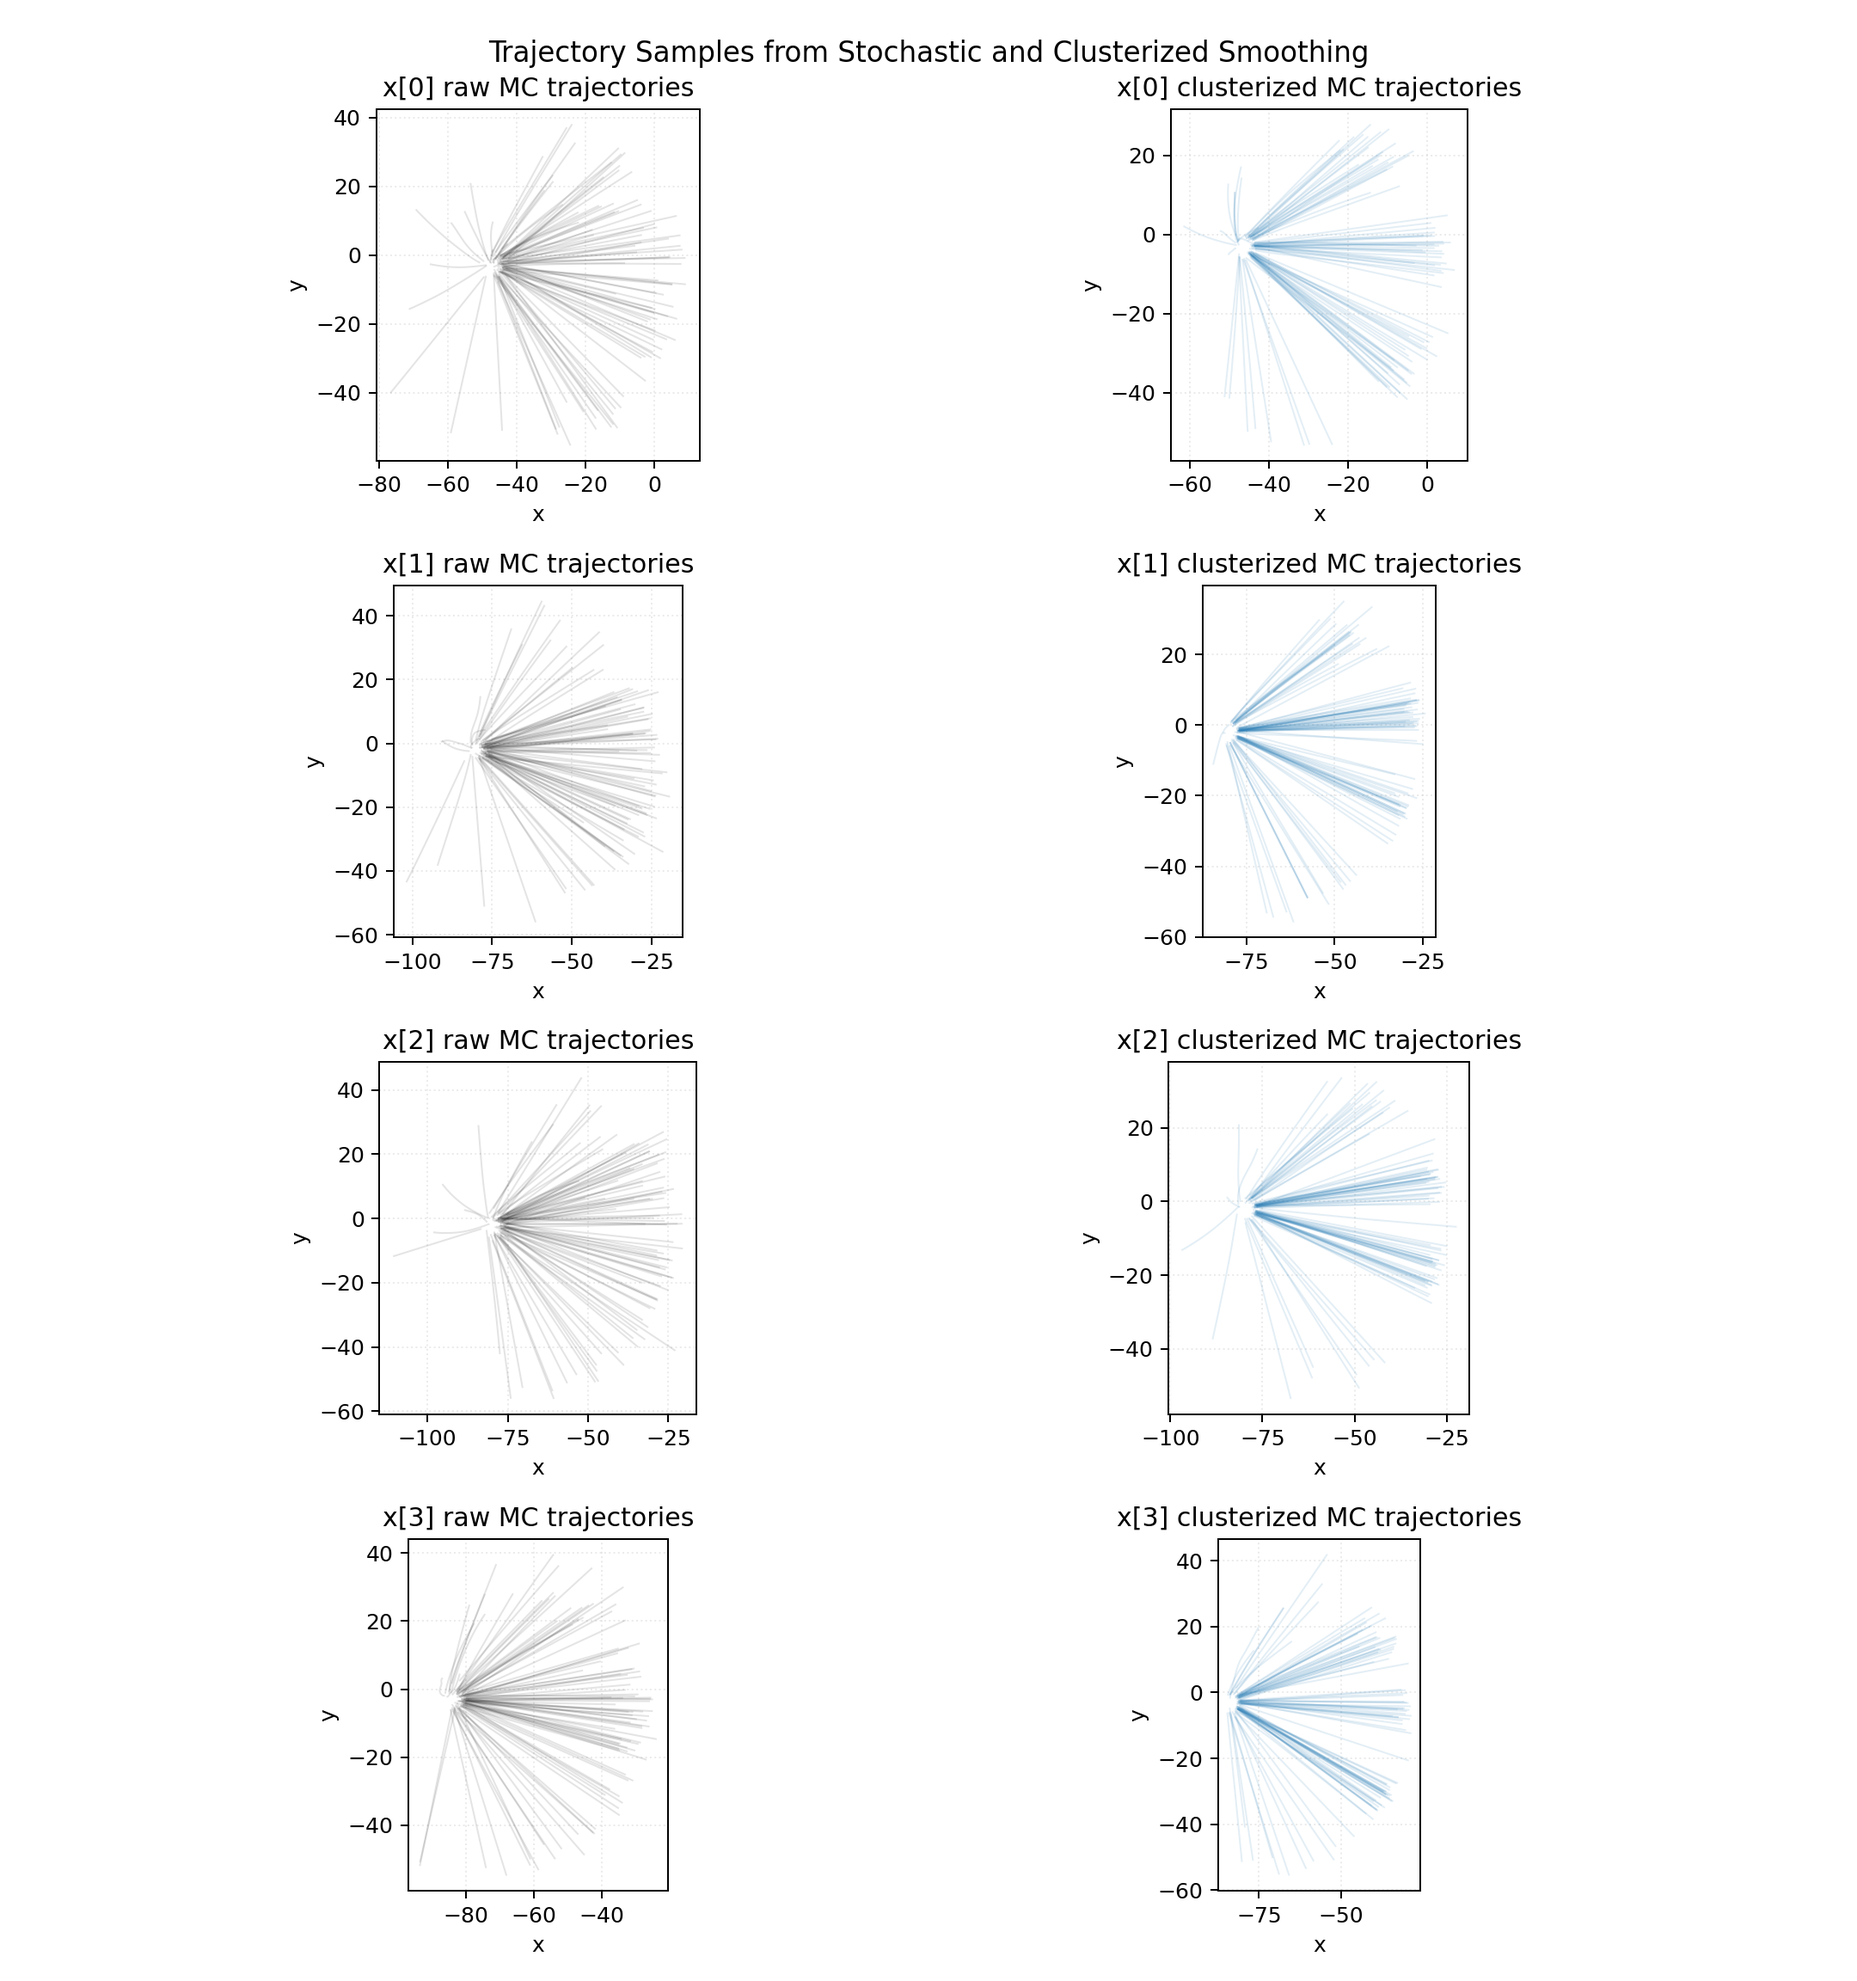
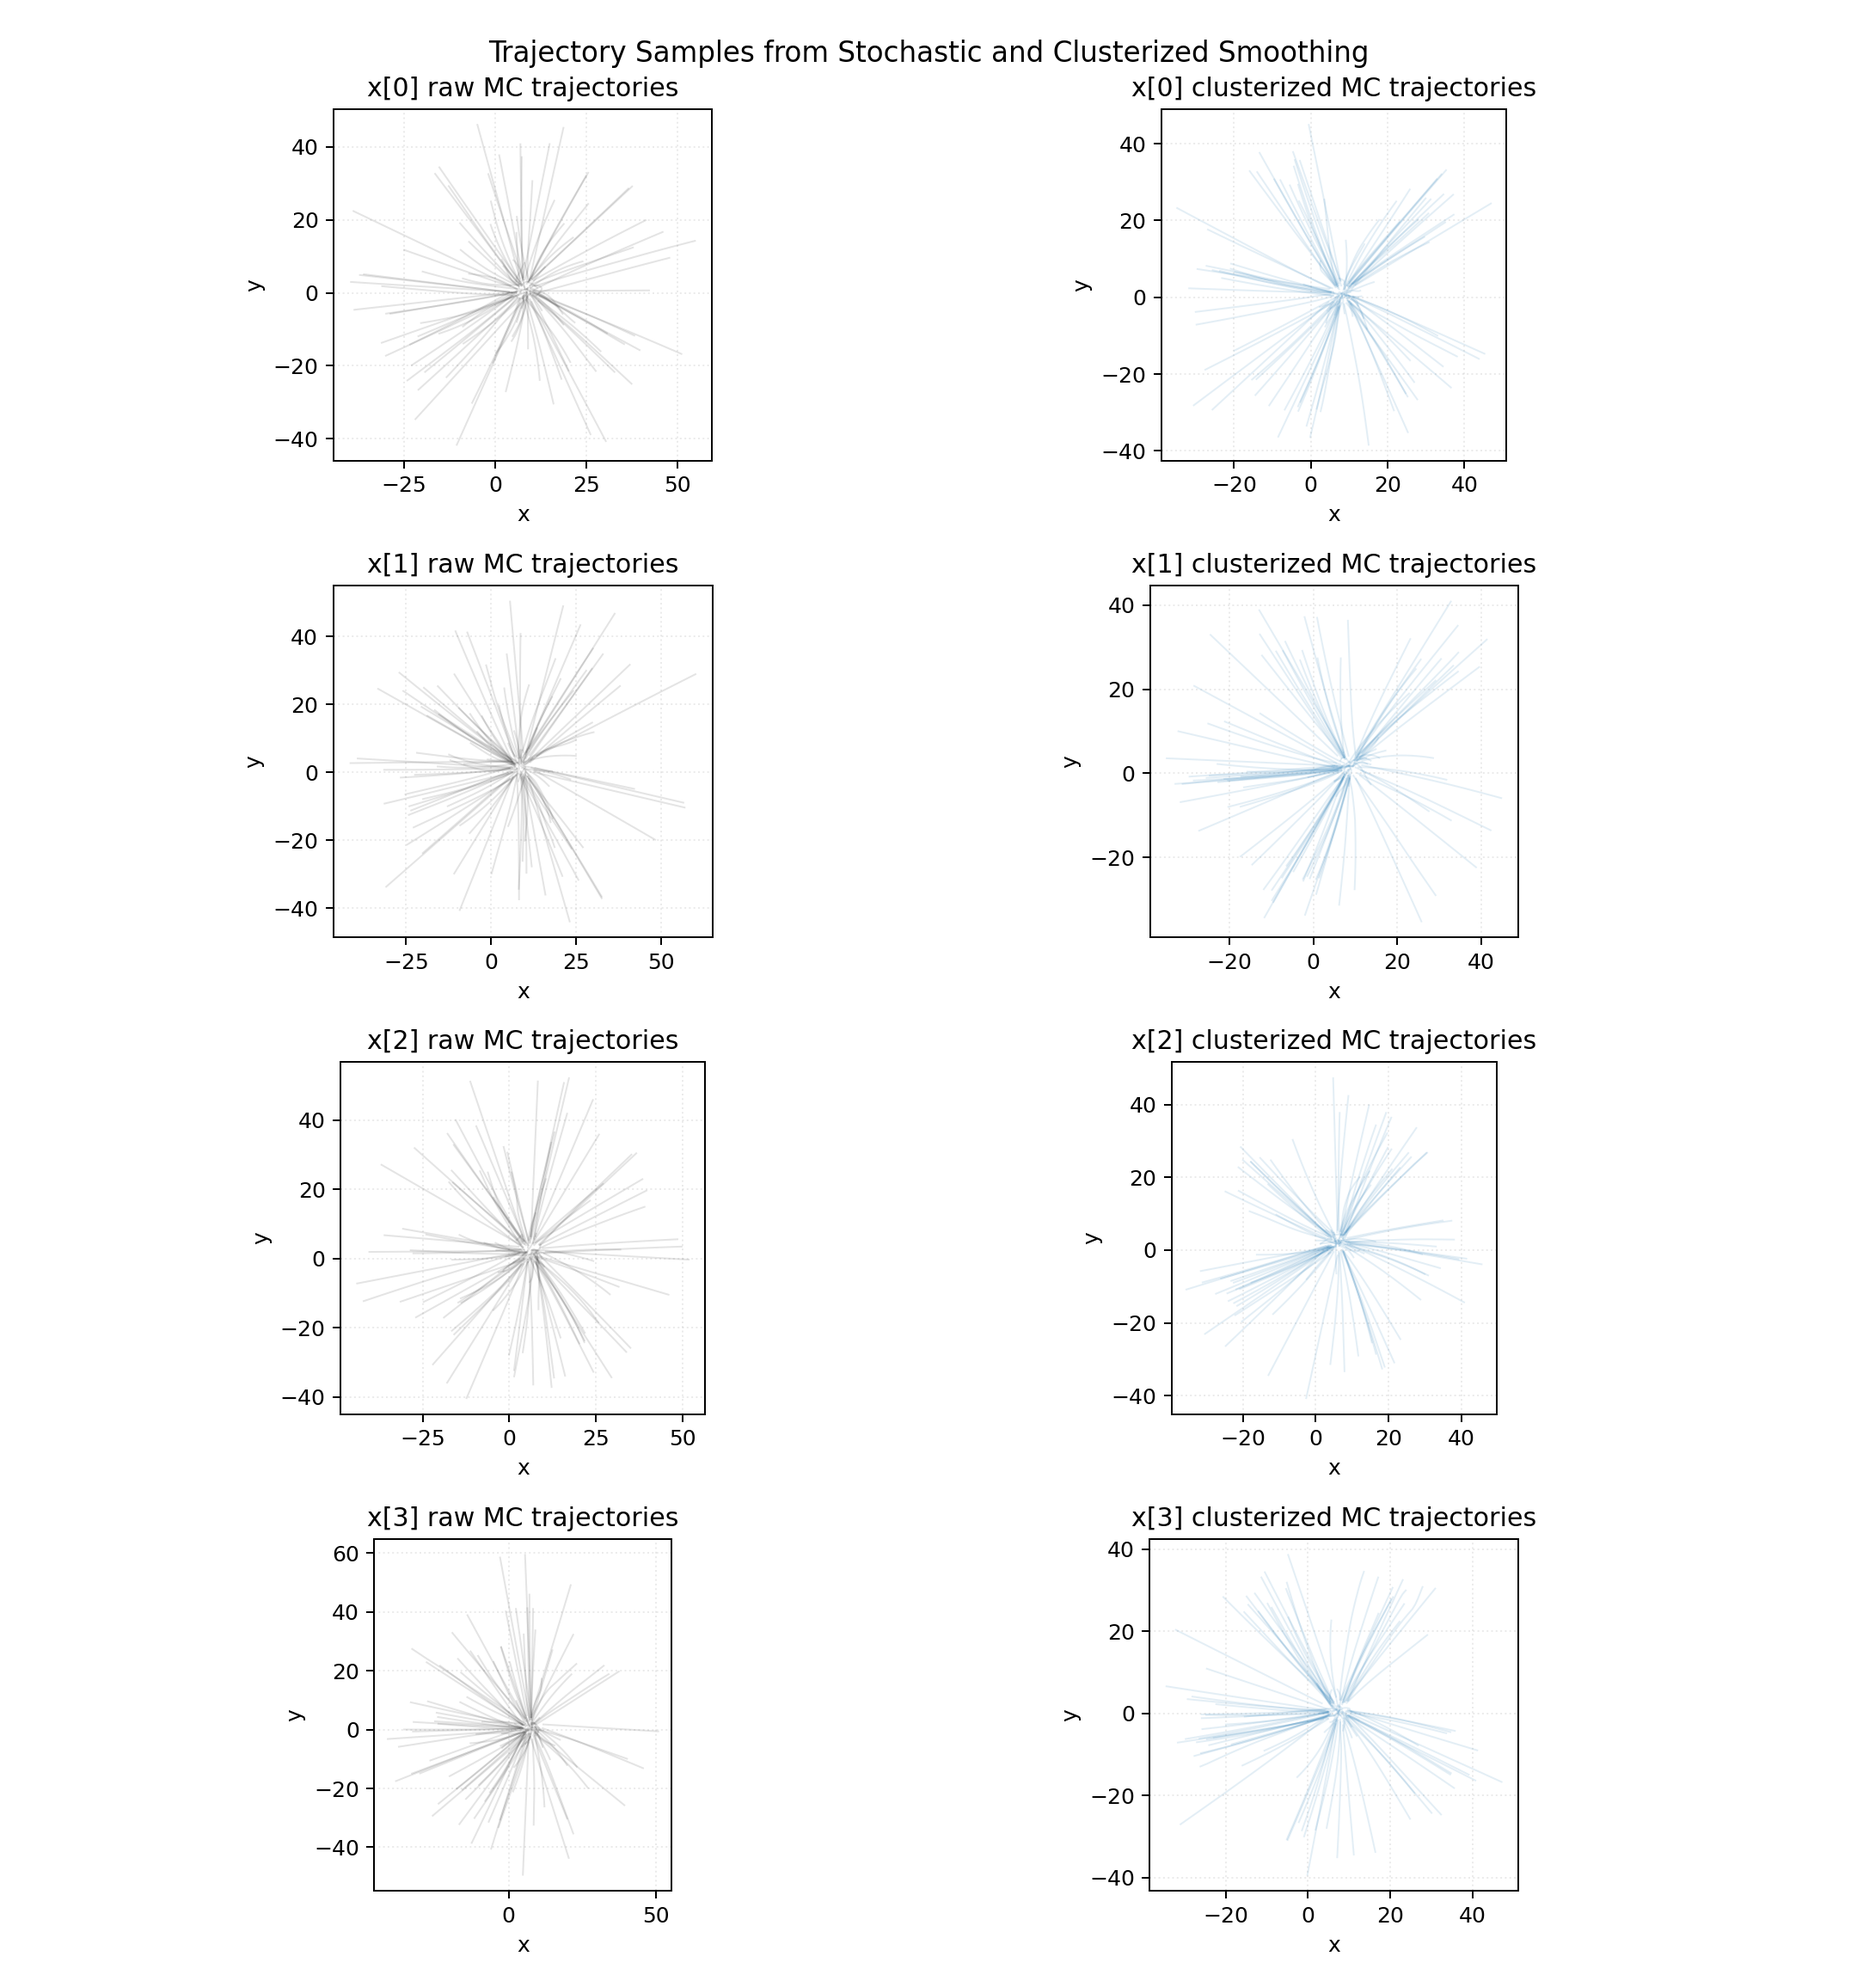
Update the model loading procedure

diff --git a/experiments/TrajFlow_exp/trajflow_meszaros.py b/experiments/TrajFlow_exp/trajflow_meszaros.py
@@ -8,6 +8,12 @@ import sys
 import importlib
 import types
 from PIL import Image
+from pathlib import Path
+
+TRAJFLOW = Path(__file__).resolve().parent
+if str(TRAJFLOW) not in sys.path:
+    sys.path.insert(0, str(TRAJFLOW))
+
 from TrajFlow.flowModels import TrajFlow, Future_Encoder, Future_Decoder, Future_Seq2Seq, Scene_Encoder, Future_Decoder_Control, Future_Seq2Seq_Control
 
 
@@ -229,163 +235,11 @@ class trajflow_meszaros():
     def load_method(self):        
         fut_model_file = self.model_file[:-4] + '_AE'
         flow_dist_file = self.model_file[:-4] + '_NF'
-        self.fut_model = self._pickle_load_with_map_location(fut_model_file)
-        self.flow_dist = self._pickle_load_with_map_location(flow_dist_file)
-        self._move_model_to_active_device(self.fut_model)
-        self._move_model_to_active_device(self.flow_dist)
-        self._make_gnn_encoder_compatible()
+        self.fut_model = pickle.load(open(fut_model_file, 'rb'))
+        self.flow_dist = pickle.load(open(flow_dist_file, 'rb'))
+        self.fut_model.to(self.device)
+        self.flow_dist.to(self.device)
 
-    def _make_gnn_encoder_compatible(self):
-        encoder = getattr(self.flow_dist, "GNNencoder", None)
-        if encoder is None:
-            return
-
-        try:
-            from torch_geometric.data import Data
-
-            dummy = Data(
-                x=torch.zeros((1, self.flow_dist.obs_encoding_size), dtype=torch.float32, device=self.device),
-                edge_index=torch.zeros((2, 0), dtype=torch.long, device=self.device),
-                edge_attr=torch.zeros((0, self.flow_dist.edge_dim_gnn), dtype=torch.float32, device=self.device),
-                batch=torch.zeros((1,), dtype=torch.long, device=self.device),
-            )
-            encoder(dummy)
-        except Exception:
-            self.flow_dist.GNNencoder = _ZeroSocialEncoder(
-                emb_dim=self.flow_dist.es_gnn,
-                device=self.device,
-            )
-
-    def _move_model_to_active_device(self, model):
-        if isinstance(model, torch.nn.Module):
-            model.to(self.device)
-            for submodule in model.modules():
-                if hasattr(submodule, "device"):
-                    submodule.device = self.device
-                if hasattr(submodule, "propagate"):
-                    submodule.__dict__.setdefault("_explain", False)
-                    submodule.__dict__.setdefault("_decomposed_layers", 1)
-                    if hasattr(submodule, "inspector"):
-                        try:
-                            inspector_cls = importlib.import_module("torch_geometric.inspector").Inspector
-                            submodule.inspector = inspector_cls(submodule.__class__)
-                            for fn_name in (
-                                "message",
-                                "aggregate",
-                                "update",
-                                "edge_update",
-                                "message_and_aggregate",
-                            ):
-                                if hasattr(submodule, fn_name):
-                                    try:
-                                        submodule.inspector.inspect_signature(fn_name)
-                                    except Exception:
-                                        pass
-                        except Exception:
-                            pass
-        elif hasattr(model, "device"):
-            model.device = self.device
-
-    @staticmethod
-    def _encode_agent_types(T):
-        # Keep historical one-byte encoding expected by TrajFlow checkpoints.
-        if np.issubdtype(np.asarray(T).dtype, np.number):
-            return np.asarray(T, dtype=np.uint8)
-
-        T_str = np.asarray(T).astype(str)
-        encoded = np.zeros(T_str.shape, dtype=np.uint8)
-        valid = T_str != 'nan'
-        if np.any(valid):
-            encoded[valid] = np.fromiter((ord(s[0]) for s in T_str[valid]), dtype=np.uint8)
-        return encoded
-
-    def _pickle_load_with_map_location(self, file_path):
-        # Pickled torch storages may contain CUDA tensors; remap to active device.
-        original_load_from_bytes = torch.storage._load_from_bytes
-        inspector_alias = "torch_geometric.nn.conv.utils.inspector"
-        added_inspector_alias = False
-        if inspector_alias not in sys.modules:
-            try:
-                sys.modules[inspector_alias] = importlib.import_module("torch_geometric.inspector")
-                added_inspector_alias = True
-            except ModuleNotFoundError:
-                pass
-
-        scatter_module = "torch_scatter"
-        added_scatter_shim = False
-        added_scatter_submodule_shim = False
-        if scatter_module not in sys.modules:
-            try:
-                importlib.import_module(scatter_module)
-            except ModuleNotFoundError:
-                shim = types.ModuleType(scatter_module)
-                shim.__path__ = []
-
-                def _scatter(src, index, dim=0, reduce="sum"):
-                    if reduce not in ("sum", "add"):
-                        raise NotImplementedError("Fallback scatter only supports add/sum")
-                    if dim != 0:
-                        raise NotImplementedError("Fallback scatter currently supports dim=0 only")
-
-                    max_index = int(index.max().item()) + 1 if index.numel() > 0 else 0
-                    out_shape = list(src.shape)
-                    out_shape[dim] = max_index
-                    out = torch.zeros(out_shape, dtype=src.dtype, device=src.device)
-
-                    expanded_index = index
-                    while expanded_index.dim() < src.dim():
-                        expanded_index = expanded_index.unsqueeze(-1)
-                    expanded_index = expanded_index.expand_as(src)
-
-                    out.scatter_add_(dim, expanded_index, src)
-                    return out
-
-                shim.scatter = _scatter
-                sys.modules[scatter_module] = shim
-                added_scatter_shim = True
-
-                shim_submodule = types.ModuleType("torch_scatter.scatter")
-                shim_submodule.scatter = _scatter
-                sys.modules["torch_scatter.scatter"] = shim_submodule
-                added_scatter_submodule_shim = True
-
-        torch.storage._load_from_bytes = lambda b: torch.load(
-            io.BytesIO(b),
-            map_location=self.device,
-            weights_only=False,
-        )
-        try:
-            with open(file_path, 'rb') as f:
-                return pickle.load(f)
-        finally:
-            torch.storage._load_from_bytes = original_load_from_bytes
-            if added_inspector_alias:
-                sys.modules.pop(inspector_alias, None)
-            if added_scatter_shim:
-                sys.modules.pop(scatter_module, None)
-            if added_scatter_submodule_shim:
-                sys.modules.pop("torch_scatter.scatter", None)
-        
-    
-    def extract_batch_data(self, X, T, Y = None, img = None):
-        
-        # Get type of agents
-        T_out = self._encode_agent_types(T)
-        T_out = torch.from_numpy(T_out).to(device = self.device)
-        
-        # Standardize positions
-        X /= self.std_pos_veh
-        X = X.float().to(device = self.device)
-        
-        if Y is not None:            
-            # Standardize future positions
-            Y /= self.std_pos_veh
-            Y = Y.float().to(device = self.device)
-        
-        if img is not None:
-            img = img.float().to(device = self.device) / 255
-            
-        return X, T_out, Y, img
         
     def _repeat_rowwise(self, x, n):
         org_dim = x.size(-1)
@@ -537,7 +391,7 @@ class trajflow_meszaros():
         X = x_flat.view(len(x_flat), -1, self.num_timesteps_in, 2)
         # Assume vehicles only
         T = np.full(X.shape[:2], 'V')
-        T = self._encode_agent_types(T)
+        T = np.fromstring(T.reshape(-1), dtype = np.uint32).reshape(*T.shape, int(str(T.astype(str).dtype)[2:])).astype(np.uint8)[:,:,0]
         T = torch.from_numpy(T).to(device = self.device)
 
         # We need to assure that the image is correctly shaped as well

diff --git a/experiments/trajflow_experiment.py b/experiments/trajflow_experiment.py
@@ -1,12 +1,12 @@
 from __future__ import annotations
 
+import os
 import sys
 from pathlib import Path
 
 import numpy as np
 import torch
 
-from randomized_smoothing.distributions import MultivariateGaussian
 
 
 ROOT = Path(__file__).resolve().parent
@@ -15,6 +15,7 @@ SRC = REPO_ROOT / "src"
 if str(SRC) not in sys.path:
     sys.path.insert(0, str(SRC))
 
+from randomized_smoothing.distributions import MultivariateGaussian
 from randomized_smoothing.dataclasses import ClusteringParameters, ConfidenceParameters, Parameters, SmoothingParameters
 from randomized_smoothing.smoothing import GaussianAlphaTrimmingSmoothing
 from stochastic_functions import TrajFlowMeszarosStochasticFunction
@@ -33,9 +34,14 @@ def main():
 
     # Load real trajectory data: (323 samples, 2 agents, 10 timesteps, 5 features)
     # Extract first agent's (x,y) coordinates and reshape to (batch, 20)
-    data = np.load(ROOT / "TrajFlow" / "Data" / "Inputs.npy")
-    x_input = data[:4, 0, :, :2]  # Take first 4 samples, first agent, first 2 coords (x,y)
-    x = torch.from_numpy(x_input.reshape(4, -1)).float()  # Shape: (4, 20)
+    data_file = str(ROOT) + os.sep + "TrajFlow_exp" + os.sep + "Data" + os.sep + "Inputs.npy"
+    data = np.load(data_file)
+
+    batch_size = 4
+    x_input = data[:batch_size, :, :, :2]  # Take first 4 samples, first agent, first 2 coords (x,y)
+    # make the target agent the predicted agent
+    x_input = x_input[:,[1,0]]
+    x = torch.from_numpy(x_input.reshape(batch_size, -1)).float()  # Shape: (batch_size, 20)
 
     sigma = 1.0
     params = Parameters(

diff --git a/experiments/stochastic_functions.py b/experiments/stochastic_functions.py
@@ -48,25 +48,8 @@ class TrajFlowMeszarosStochasticFunction(StochasticFunction):
 
     def __init__(self, model=None) -> None:
         if model is None:
-            traj_dir = ROOT / "TrajFlow"
-            if str(traj_dir) not in sys.path:
-                sys.path.insert(0, str(traj_dir))
-
-            module_path = traj_dir / "trajflow_meszaros.py"
-            spec = importlib.util.spec_from_file_location("trajflow_meszaros", module_path)
-            if spec is None or spec.loader is None:
-                raise ImportError(f"Failed to load module from {module_path}")
-
-            module = importlib.util.module_from_spec(spec)
-            try:
-                spec.loader.exec_module(module)
-            except ModuleNotFoundError as exc:
-                raise ImportError(
-                    "Failed to initialize TrajFlow adapter because an optional dependency is missing. "
-                    "Install TrajFlow dependencies (for example torch-geometric) to use "
-                    "TrajFlowMeszarosStochasticFunction."
-                ) from exc
-            model = module.trajflow_meszaros()
+            from TrajFlow_exp.trajflow_meszaros import trajflow_meszaros
+            model = trajflow_meszaros()
 
         self.model = model
 
